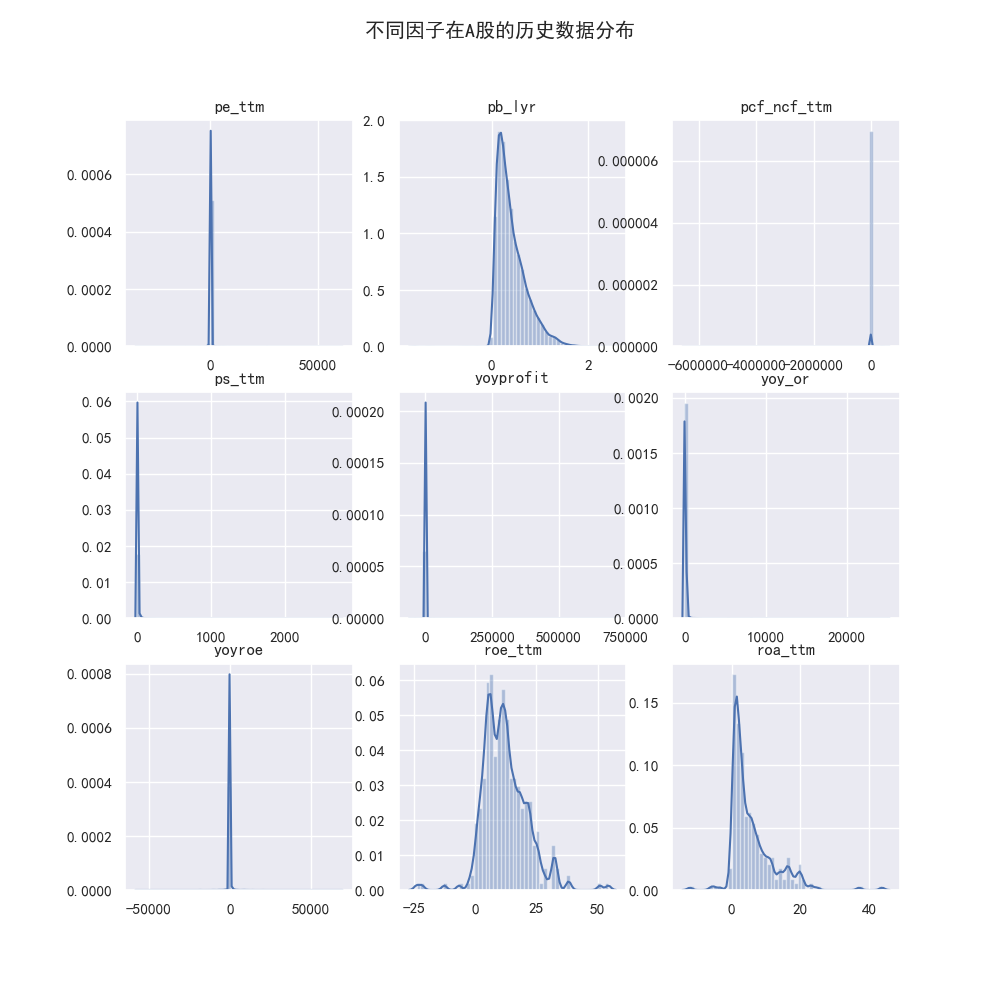
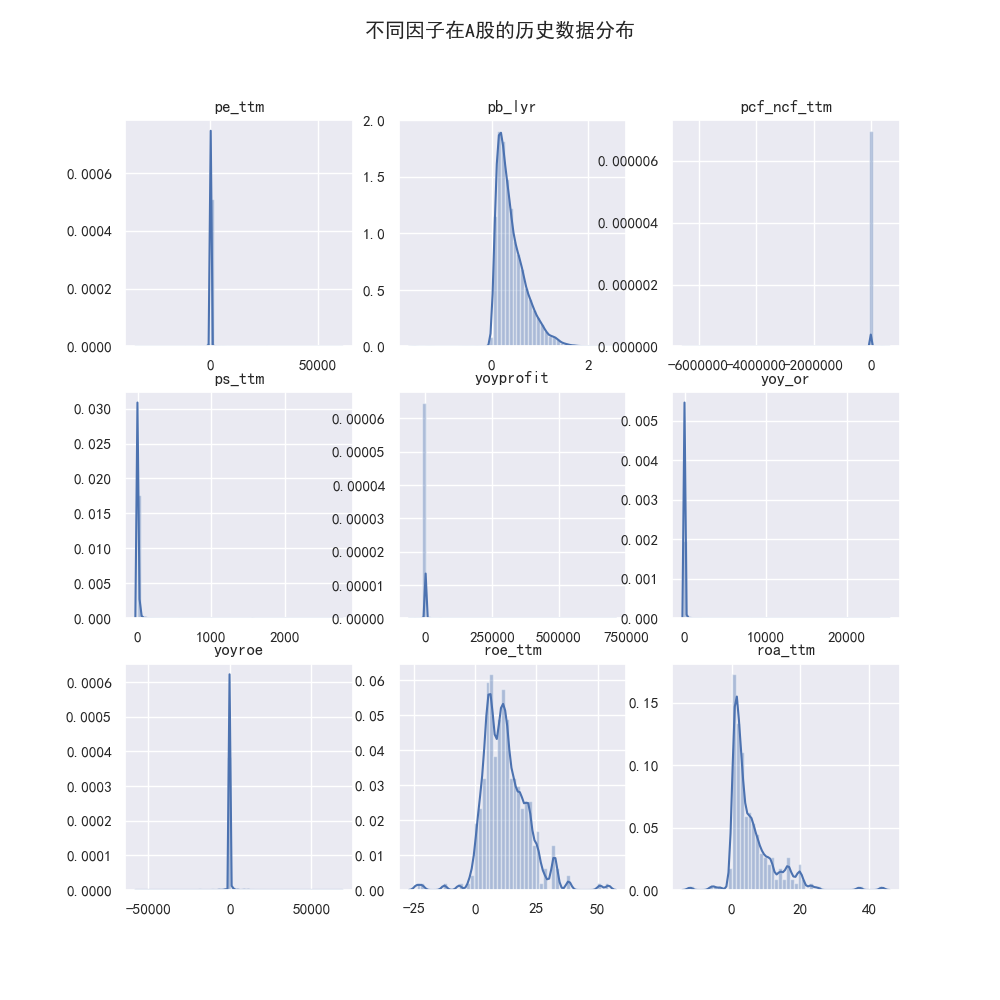
Done with step 2.1 filtering.

diff --git a/H3 Data Processing.py b/H3 Data Processing.py
@@ -47,11 +47,11 @@ def get_data(factor_name): # get data from disk.
     Parameter:
         factor_name: name of factors in Wind. (str)
     Return:
-        factor data. (pd.DataFrame)
+        forward-filled factor data. (pd.DataFrame)
             index: months. (np.int64)
             columns: stocks code list. (str)
     '''
-    return pd.read_csv(
+    data = pd.read_csv(
         open(
             path + "\\H3 Data\\" + factor_name + ".csv", 
             'r', # read-only mode for data protection.
@@ -59,37 +59,34 @@ def get_data(factor_name): # get data from disk.
         ), 
         index_col = [0]
     )
-
-#%%
-# Get an overview of the data.
-def overview(factor_name):
-    '''
-    Parameter:
-        factor_name: name of factors in Wind. (str)
-    Return:
-        histogram distribution plot of factor data.
-    '''
-    data = get_data(factor_name)
     # Forward-fill nan to make quarter report fill the month.
     data.fillna(method = 'ffill', inplace = True) 
+    return data
+
+#%%
+def get_values(data):
+    '''
+    Parameter:
+        data: input data. (pd.DataFrame)
+    Return:
+        a list of all values in data except nan. (list)
+    '''
     # Collect all non-nan value into data_list.
     value_list = []
     for i in range(len(data.columns)): 
         # is there a way to avoid loop?
         value_list += data.iloc[:, i].dropna().tolist()
-    sns.distplot(
-        value_list, 
-        # hist = False, 
-        # rug = True
-    )
-    plt.title(factor_name)
+    return value_list
 
 #%%
 # Get an overview of 9 of the factors histogram distribution plot.
 plt.figure(figsize = (10, 10))
 for i in range(9):
     plt.subplot(int("33" + str(i+1)))
-    overview(factor_list[i])
+    sns.distplot(get_values(
+        data = get_data(factor_list[i])
+    ))
+    plt.title(factor_list[i])
 plt.suptitle("不同因子在A股的历史数据分布")
 plt.savefig(path + "\\H3 Plots\\overview.png")
 
@@ -104,38 +101,142 @@ class Filter(object):
     '''
     def __init__(self, factor_name):
         data = get_data(factor_name)
-        data.fillna(method = 'ffill', inplace = True) 
-        value_list = []
-        for i in range(len(data.columns)):
-            value_list += data.iloc[:, i].dropna().tolist()
         self.data = data
-        self.values = value_list
+        self.values = get_values(
+            data = data
+        )
     
-    def median_absolute_deviation(self, n = 3):
-        median = np.percentile(self.values, 50) # the 50 percentile of the factor.
+    def original(self):
+        '''
+        Return:
+            original unfiltered data. (pd.DataFrame)
+        '''
+        return self.data
+    
+    def MAD(self, n = 100):
+        '''
+        Parameter:
+            n: how many times new median. (int)
+        Return:
+            filtered data. (pd.DataFrame)
+        '''
+        median = np.percentile(self.values, 50)
         new_median = np.percentile(
-            abs(self.data - median), 
-            50
+            get_values(abs(self.data - median)), 50
         )
         min_range = median - n * new_median
         max_range = median + n * new_median
-        return np.clip(self.data, min_range, max_range)
+        return self.data.clip(min_range, max_range, axis = 1)
     
     def three_sigma(self, n = 3):
-        min_range = self.data.mean() - n * self.data.std()
-        max_range = self.data.mean() + n * self.data.std()
+        '''
+        Parameter:
+            n: how many sigmas. (int)
+        Return:
+            filtered data. (pd.DataFrame)
+        '''
+        min_range = np.mean(self.values) - n * np.std(self.values)
+        max_range = np.mean(self.values) + n * np.std(self.values)
         return self.data.clip(min_range, max_range, axis = 1)
+    
+    def percentile_filter(self, min = 1.5, max = 98.5):
+        '''
+        Parameters:
+            min: minimum percentage. (float)
+            max: maximum percentage. (float)
+        Return:
+            filtered data. (pd.DataFrame)
+        '''
+        min_range = np.percentile(self.values, min)
+        max_range = np.percentile(self.values, max)
+        return np.clip(self.data, min_range, max_range)
 
 #%%
 # Get an overview of MAD method filtering.
 plt.figure(figsize = (10, 10))
 for i in range(9):
     plt.subplot(int("33" + str(i+1)))
-    overview(factor_list[i])
-plt.suptitle("不同因子在A股的历史数据分布")
-plt.savefig(path + "\\H3 Plots\\overview.png")
-
-#%% [markdown]
-# ## Risk Factors Neutralization.
+    sns.distplot(get_values(
+        data = Filter(factor_list[i]).MAD()
+    ))
+    plt.title(factor_list[i])
+plt.suptitle("绝对值差中位数法(MAD法)去极值后")
+plt.savefig(path + "\\H3 Plots\\MAD.png")
 
 #%%
+# Get an overview of 3 sigma method filtering.
+plt.figure(figsize = (10, 10))
+for i in range(9):
+    plt.subplot(int("33" + str(i+1)))
+    sns.distplot(get_values(
+        data = Filter(factor_list[i]).three_sigma()
+    ))
+    plt.title(factor_list[i])
+plt.suptitle("3σ法去极值后")
+plt.savefig(path + "\\H3 Plots\\3σ.png")
+
+#%%
+# Get an overview of percentile method filtering.
+plt.figure(figsize = (10, 10))
+for i in range(9):
+    plt.subplot(int("33" + str(i+1)))
+    sns.distplot(get_values(
+        data = Filter(factor_list[i]).percentile_filter()
+    ))
+    plt.title(factor_list[i])
+plt.suptitle("百分位法去极值后")
+plt.savefig(path + "\\H3 Plots\\percentile.png")
+
+#%%
+plt.figure(figsize = (8, 5))
+sns.distplot(get_values(
+    data = Filter("pcf_ncf_ttm").original()
+), label = "Percentile")
+plt.legend()
+plt.title("每股现金流：原始数据")
+plt.savefig(path + "\\H3 Plots\\original pcf_ncf_ttm.png")
+
+#%%
+plt.figure(figsize = (8, 5))
+sns.distplot(get_values(
+    data = Filter("pcf_ncf_ttm").percentile_filter()
+), label = "Percentile")
+plt.legend()
+plt.title("每股现金流：百分位去极值")
+plt.savefig(path + "\\H3 Plots\\percentile filter pcf_ncf_ttm.png")
+
+#%%
+plt.figure(figsize = (8, 5))
+sns.distplot(get_values(
+    data = Filter("pcf_ncf_ttm").original()
+), label = "Original")
+sns.distplot(get_values(
+    data = Filter("pcf_ncf_ttm").MAD()
+), label = "MAD")
+sns.distplot(get_values(
+    data = Filter("pcf_ncf_ttm").three_sigma()
+), label = "3σ")
+sns.distplot(get_values(
+    data = Filter("pcf_ncf_ttm").percentile_filter()
+), label = "Percentile")
+plt.legend()
+plt.title("不同去极值方法的比较（以每股现金流为例）")
+plt.savefig(path + "\\H3 Plots\\Comparison(pcf_ncf_ttm).png")
+
+#%%
+plt.figure(figsize = (8, 5))
+sns.distplot(get_values(
+    data = Filter("roe_ttm").original()
+), label = "Original")
+sns.distplot(get_values(
+    data = Filter("roe_ttm").MAD()
+), label = "MAD")
+sns.distplot(get_values(
+    data = Filter("roe_ttm").three_sigma()
+), label = "3σ")
+sns.distplot(get_values(
+    data = Filter("roe_ttm").percentile_filter()
+), label = "Percentile")
+plt.legend()
+plt.title("不同去极值方法的比较（以ROE为例）")
+plt.savefig(path + "\\H3 Plots\\Comparison(roe_ttm).png")

diff --git a/README.md b/README.md
@@ -89,8 +89,50 @@ Ln_MarketValue|VAL_LNMV
 
 ### 2.1.1 MAD法 (Median Absolute Deviation)
 
-取因子的中位数，加减每个因子与该中位数的绝对偏差值的中位数乘上给定参数得到上下阈值。
+取因子的中位数，加减每个因子与该中位数的绝对偏差值的中位数乘上给定参数（此处经过调参设定默认为100倍）得到上下阈值。
 
+经过MAD法去极值后的因子数据概览如下：
 
+![MAD.png](https://storage.live.com/items/A3FA4B9C0717EA26!53689?authkey=AH5Re-C6ttiO_oc)
+
+### 2.1.2 3σ法
+
+取所有因子数据的标准差（即σ），偏离平均值三倍标准差处设为上下阈值。
+
+经过3σ法去极值后的因子数据概览如下：
+
+![3σ.png](https://storage.live.com/items/A3FA4B9C0717EA26!53690?authkey=AH5Re-C6ttiO_oc)
+
+### 2.1.3 百分位法
+
+取给定百分位作为上下阈值。（此处经过调参设定为下限1.5%，上限98.5%分位点）
+
+经过百分位法去极值后的因子数据概览如下：
+
+![percentile.png](https://storage.live.com/items/A3FA4B9C0717EA26!53691?authkey=AH5Re-C6ttiO_oc)
+
+### 2.1.4 去极值研究。
+
+实际上，三种主流方法即使经过调参尽可能地使其结果接近并不出现过于集中的阈值，仍然有可能出现非常显著不同的效果。
+
+以每股现金流为例，将原始数据和三种去极值的方法处理后的因子数据放在同一张图里，由于值域相差太大，甚至根本无法从图中找到不同的方法对应的图表。
+
+![Comparison(pcf_ncf_ttm).png](https://i.loli.net/2019/02/24/5c7215995823d.png)
+
+究其原因，是其原本数据的集中度就非常高，以至于不同方法去极值计算出相差甚远的阈值。
+
+![original pcf_ncf_ttm.png](https://storage.live.com/items/A3FA4B9C0717EA26!53692?authkey=AH5Re-C6ttiO_oc)
+
+所以经过百分位去极值后，尽管值域缩小了近6000倍，但仍然非常集中。
+
+并且这种离差过大的数据去极值的时候还会出现一个问题：造成阈值部分出现异常高的“虚假”数据，而这是我们不愿意看到的。👇
+
+![percentile filter pcf_ncf_ttm.png](https://storage.live.com/items/A3FA4B9C0717EA26!53693?authkey=AH5Re-C6ttiO_oc)
+
+> 注意[-1000, 1000]处的“突起”。
+
+但在大多数情况下（数据分布相对均匀时，此处以ROE为例），各种方法与原始数据相差不大。
+
+![Comparison(roe_ttm).png](https://i.loli.net/2019/02/24/5c72160804bbb.png)
 
 ## 2.2 填补缺失值
